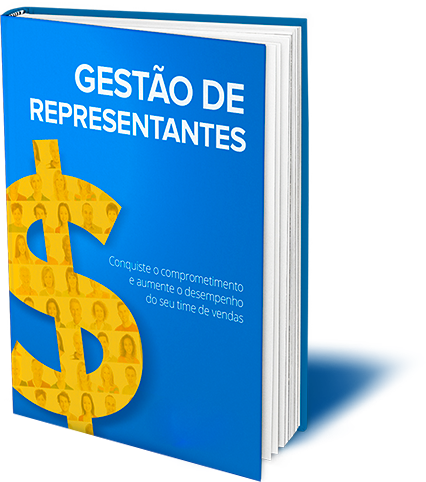
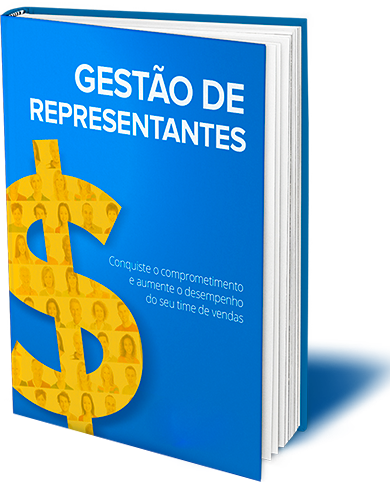
alinhando imagem 20px a left

Changed region(s): [[0.0, 0.0, 1.0, 1.0], [0.0, 0.1245, 0.0308, 0.1556]]

diff --git a/assets/css/estilo.css b/assets/css/estilo.css
@@ -67,7 +67,7 @@
   *	FORMATACAO IMAGEM 
   */
 .image-gestao {
-	margin: 0 auto;
+	margin-left:20px;
 }
 
  /*
